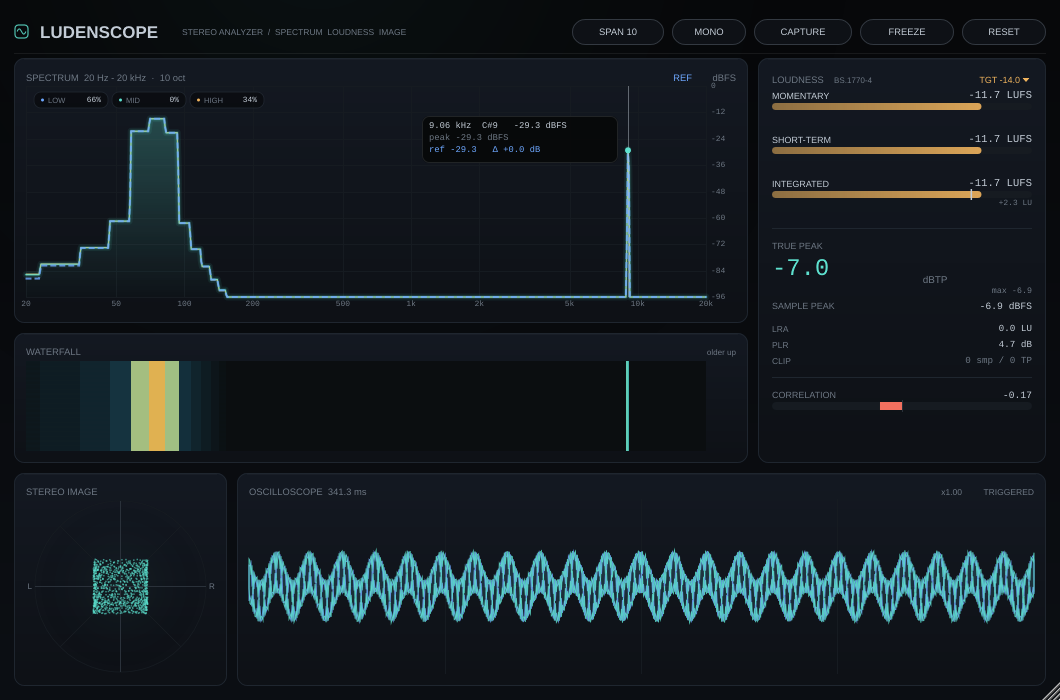
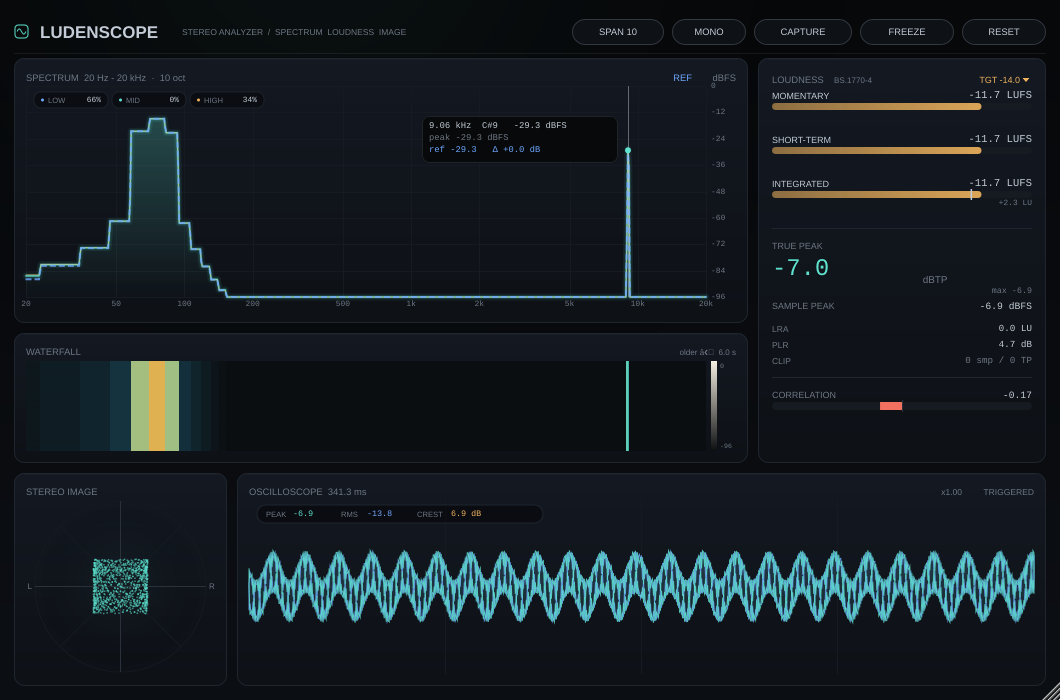
ui: readable waterfall and scope stats HUD
- The waterfall now scrolls at half speed (one row per two editor ticks),
  covering about 6.8 s at the default height, and shows that window in the
  title ("older up  6.8 s")
- A dB colour legend in the right margin explains the heat map (0 / -96)
- The oscilloscope gained a HUD pill with PEAK / RMS / CREST for the
  visible window, in the spirit of the reference plugin's loudness badges
- Snapshot test runs long enough for the slower waterfall to fill

diff --git a/Source/ui/SpectrogramView.h b/Source/ui/SpectrogramView.h
@@ -23,6 +23,11 @@ public:
         if (! image.isValid() || numBins <= 0)
             return;
 
+        // Two editor ticks per row: the panel then covers about six seconds,
+        // which is easier to read than the raw 30 Hz scroll.
+        if ((pushCounter++ % pushDivider) != 0)
+            return;
+
         juce::Image::BitmapData data (image, juce::Image::BitmapData::writeOnly);
 
         for (int x = 0; x < width; ++x)
@@ -91,7 +96,8 @@ public:
         g.drawText ("WATERFALL", titleRow, juce::Justification::centredLeft);
 
         g.setFont (theme::labelFont (9.0f));
-        g.drawText ("older up", titleRow, juce::Justification::centredRight);
+        g.drawText ("older \xe2\x86\x91  " + juce::String (historySeconds(), 1) + " s",
+                    titleRow, juce::Justification::centredRight);
 
         const auto plot = plotBounds();
 
@@ -107,9 +113,31 @@ public:
         if (writeRow > 0)
             g.drawImage (image, (int) plot.getX(), (int) plot.getY() + oldestRows,
                          width, writeRow, 0, 0, width, writeRow);
+
+        // dB colour scale in the margin that the spectrum uses for its labels.
+        const float legendX = plot.getRight() + 5.0f;
+        const juce::Rectangle<float> legend (legendX, plot.getY(), 6.0f, plot.getHeight());
+
+        juce::ColourGradient scale (heat (1.0f), legendX, plot.getY(),
+                                    heat (0.0f), legendX, plot.getBottom(), false);
+        g.setGradientFill (scale);
+        g.fillRect (legend);
+
+        g.setFont (theme::monoFont (7.5f));
+        g.setColour (theme::textDim);
+        g.drawText ("0", juce::Rectangle<float> (legendX + 9.0f, plot.getY(), 18.0f, 10.0f),
+                    juce::Justification::centredLeft);
+        g.drawText ("-96", juce::Rectangle<float> (legendX + 9.0f, plot.getBottom() - 10.0f, 18.0f, 10.0f),
+                    juce::Justification::centredLeft);
     }
 
 private:
+    double historySeconds() const noexcept
+    {
+        // The editor pushes at 30 Hz but only every second tick becomes a row.
+        return height > 0 ? (double) height / 15.0 : 0.0;
+    }
+
     juce::Rectangle<float> plotBounds() const
     {
         return getLocalBounds().toFloat()
@@ -160,6 +188,9 @@ private:
     int width = 0;
     int height = 0;
     int writeRow = 0;
+    int pushCounter = 0;
+
+    static constexpr int pushDivider = 2;
 
     float rangeLow = 20.0f;
     float rangeHigh = 20000.0f;

diff --git a/Source/ui/OscilloscopeView.h b/Source/ui/OscilloscopeView.h
@@ -179,6 +179,53 @@ public:
 
         drawChannel (right, theme::cold);
         drawChannel (left, theme::accent);
+
+        if (drawCount >= 8)
+        {
+            double sumSquares = 0.0;
+            float peak = 0.0f;
+
+            for (int i = 0; i < drawCount; ++i)
+            {
+                const float l = left[(size_t) (start + i)];
+                const float r = right[(size_t) (start + i)];
+
+                sumSquares += (double) l * l + (double) r * r;
+                peak = juce::jmax (peak, juce::jmax (std::abs (l), std::abs (r)));
+            }
+
+            const float rms = (float) std::sqrt (sumSquares / (double) (2 * drawCount));
+            const float peakDb = 20.0f * std::log10 (juce::jmax (peak, 1.0e-5f));
+            const float rmsDb = 20.0f * std::log10 (juce::jmax (rms, 1.0e-5f));
+
+            const juce::Rectangle<float> stats (plot.getX() + 8.0f, plot.getY() + 6.0f, 286.0f, 18.0f);
+
+            g.setColour (theme::bg.withAlpha (0.66f));
+            g.fillRoundedRectangle (stats, 9.0f);
+            g.setColour (theme::panelLine);
+            g.drawRoundedRectangle (stats, 9.0f, 1.0f);
+
+            g.setFont (theme::labelFont (8.5f));
+            g.setColour (theme::textDim);
+            g.drawText ("PEAK", stats.withTrimmedLeft (9.0f).withWidth (28.0f),
+                        juce::Justification::centredLeft);
+            g.drawText ("RMS", stats.withTrimmedLeft (84.0f).withWidth (26.0f),
+                        juce::Justification::centredLeft);
+            g.drawText ("CREST", stats.withTrimmedLeft (160.0f).withWidth (34.0f),
+                        juce::Justification::centredLeft);
+
+            g.setFont (theme::monoFont (9.5f));
+            g.setColour (theme::accent);
+            g.drawText (juce::String (peakDb, 1), stats.withTrimmedLeft (36.0f).withWidth (42.0f),
+                        juce::Justification::centredLeft);
+            g.setColour (theme::cold);
+            g.drawText (juce::String (rmsDb, 1), stats.withTrimmedLeft (110.0f).withWidth (42.0f),
+                        juce::Justification::centredLeft);
+            g.setColour (theme::accent2);
+            g.drawText (juce::String (peakDb - rmsDb, 1) + " dB",
+                        stats.withTrimmedLeft (194.0f).withWidth (86.0f),
+                        juce::Justification::centredLeft);
+        }
     }
 
 private:

diff --git a/Tests/UiSnapshot.cpp b/Tests/UiSnapshot.cpp
@@ -74,7 +74,7 @@ int main (int argc, char** argv)
     Feeder feeder (processor, buffer, midi);
     feeder.startTimerHz (120);
 
-    juce::Timer::callAfterDelay (4000, []
+    juce::Timer::callAfterDelay (7500, []
     {
         juce::MessageManager::getInstance()->stopDispatchLoop();
     });
